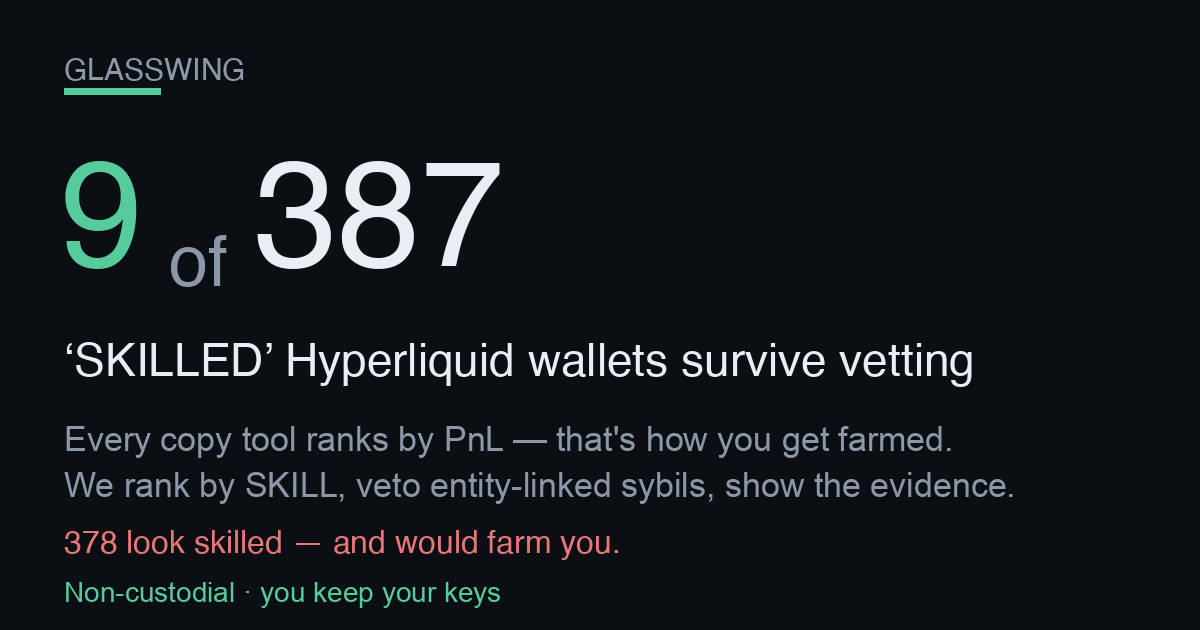
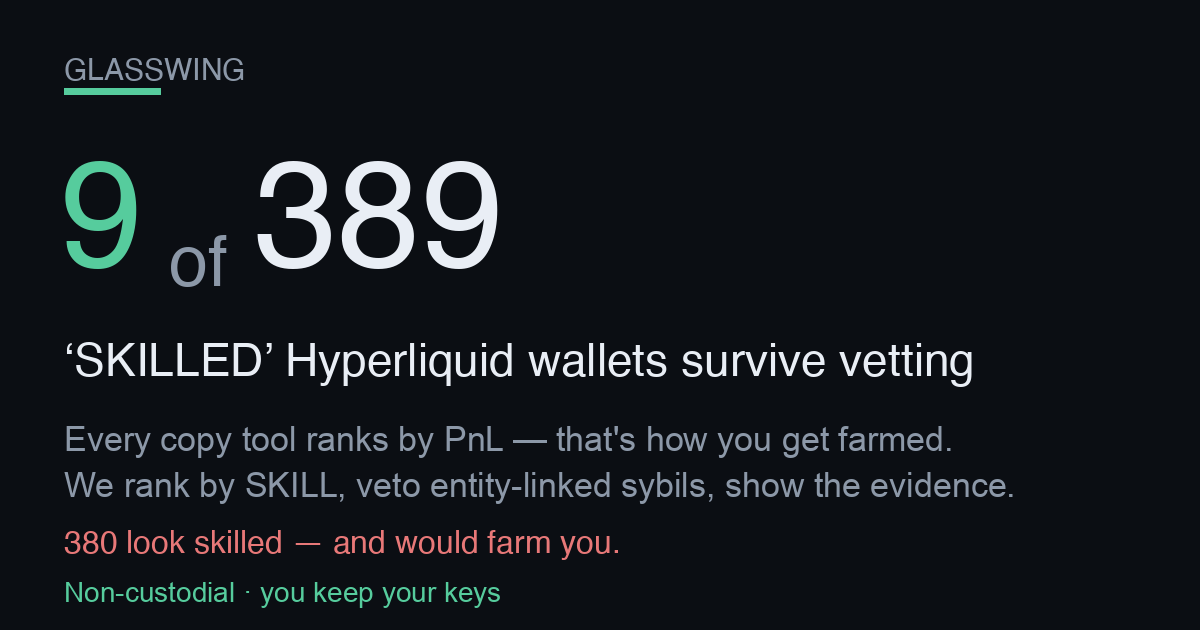
publish funnel 2026-09-12T15:27:09Z

Changed region(s): [[0.3392, 0.2413, 0.4317, 0.4524], [0.0617, 0.8444, 0.0925, 0.8746]]

diff --git a/screener.html b/screener.html
@@ -57,4 +57,4 @@ padding:11px 22px;font-size:15px;font-weight:800;border:1px solid var(--good)}
 footer{margin-top:34px;color:var(--muted);font-size:12px;line-height:1.6;
 border-top:1px solid var(--line);padding-top:16px}
 footer b{color:var(--ink)}
-</style></head><body><div class="wrap"><div class="nav"><a href="./index.html">&larr; Glasswing home</a><span class="sep">|</span><span>Edge Screener</span><span class="sep">|</span><a href="./dex.html">Copy a vetted leader</a></div><div class="hero"><h1>Hyperliquid Edge Screener</h1><div class="sub">Where&rsquo;s the carry, where a maker earns, and what&rsquo;s moving on Hyperliquid &mdash; live, computed from the public API. Bookmark it. Every number below is real and timestamped.</div><div class="stamp">Data as of <b>2026-09-12T09:20:28Z</b> &middot; rendered 2026-09-12T09:20:28Z &middot; 178 perps &middot; 104 HIP-3 (xyz) markets scanned</div></div><h2>Top funding &mdash; the carry table <span class="hint">perps ranked by annualized funding. Positive = longs pay shorts (a delta-neutral short earns it).</span></h2><div class="tblwrap"><table><thead><tr><th>Coin</th><th>Funding / hr</th><th>Annualized</th><th>Who pays</th><th>Open interest</th><th>24h volume</th></tr></thead><tbody><tr><td class="coin">ACE</td><td>-0.0217%</td><td class="neg">-189.9%</td><td><span class="tag shorts">shorts pay</span></td><td>$575K</td><td>$329K</td></tr><tr><td class="coin">SOPH</td><td>-0.0117%</td><td class="neg">-102.7%</td><td><span class="tag shorts">shorts pay</span></td><td>$841K</td><td>$843K</td></tr><tr><td class="coin">REZ</td><td>-0.0084%</td><td class="neg">-73.8%</td><td><span class="tag shorts">shorts pay</span></td><td>$667K</td><td>$660K</td></tr><tr><td class="coin">MINA</td><td>-0.0082%</td><td class="neg">-71.8%</td><td><span class="tag shorts">shorts pay</span></td><td>$3.8M</td><td>$1.9M</td></tr><tr><td class="coin">ALT<span class="tag thin" title="Low liquidity/OI &mdash; ADL &amp; liquidation risk; funding can flip">&#9888; thin</span></td><td>-0.0081%</td><td class="neg">-70.7%</td><td><span class="tag shorts">shorts pay</span></td><td>$844K</td><td>$107K</td></tr><tr><td class="coin">ATOM</td><td>-0.0078%</td><td class="neg">-68.5%</td><td><span class="tag shorts">shorts pay</span></td><td>$2.8M</td><td>$2.1M</td></tr><tr><td class="coin">HEMI</td><td>-0.0076%</td><td class="neg">-66.2%</td><td><span class="tag shorts">shorts pay</span></td><td>$1.2M</td><td>$457K</td></tr><tr><td class="coin">STBL<span class="tag thin" title="Low liquidity/OI &mdash; ADL &amp; liquidation risk; funding can flip">&#9888; thin</span></td><td>+0.0063%</td><td class="pos">+54.7%</td><td><span class="tag longs">longs pay</span></td><td>$2.2M</td><td>$200K</td></tr><tr><td class="coin">NXPC<span class="tag thin" title="Low liquidity/OI &mdash; ADL &amp; liquidation risk; funding can flip">&#9888; thin</span></td><td>-0.0056%</td><td class="neg">-48.6%</td><td><span class="tag shorts">shorts pay</span></td><td>$308K</td><td>$87K</td></tr><tr><td class="coin">POPCAT<span class="tag thin" title="Low liquidity/OI &mdash; ADL &amp; liquidation risk; funding can flip">&#9888; thin</span></td><td>+0.0044%</td><td class="pos">+39.0%</td><td><span class="tag longs">longs pay</span></td><td>$2.1M</td><td>$146K</td></tr><tr><td class="coin">TRUMP</td><td>-0.0044%</td><td class="neg">-38.6%</td><td><span class="tag shorts">shorts pay</span></td><td>$12.4M</td><td>$5.8M</td></tr><tr><td class="coin">ZETA<span class="tag thin" title="Low liquidity/OI &mdash; ADL &amp; liquidation risk; funding can flip">&#9888; thin</span></td><td>-0.0042%</td><td class="neg">-36.7%</td><td><span class="tag shorts">shorts pay</span></td><td>$1.3M</td><td>$117K</td></tr></tbody></table></div><h2>Widest HIP-3 spreads &mdash; where a maker earns <span class="hint">xyz: markets by impact-price spread vs the ~0.6bps round-trip fee. A resting limit order captures the gap.</span></h2><div class="tblwrap"><table><thead><tr><th>Market</th><th>Spread</th><th>vs 0.6bps fee</th><th>Mid</th><th>24h volume</th></tr></thead><tbody><tr><td class="coin">xyz:NET<span class="tag gm">growth</span></td><td>102.6 bps</td><td class="pos">+102.0 bps</td><td>309.5400</td><td>$97K</td></tr><tr><td class="coin">xyz:BIRD<span class="tag gm">growth</span></td><td>99.8 bps</td><td class="pos">+99.2 bps</td><td>2.5046</td><td>$68K</td></tr><tr><td class="coin">xyz:NCLD<span class="tag gm">growth</span></td><td>87.3 bps</td><td class="pos">+86.7 bps</td><td>24.1570</td><td>$151K</td></tr><tr><td class="coin">xyz:SOFTBANK<span class="tag gm">growth</span></td><td>87.3 bps</td><td class="pos">+86.7 bps</td><td>42.5130</td><td>$335K</td></tr><tr><td class="coin">xyz:BMNR</td><td>82.5 bps</td><td class="pos">+81.9 bps</td><td>25.0785</td><td>$382K</td></tr><tr><td class="coin">xyz:SHEIN<span class="tag gm">growth</span></td><td>78.3 bps</td><td class="pos">+77.7 bps</td><td>5.1162</td><td>$303K</td></tr><tr><td class="coin">xyz:GIGADEV<span class="tag gm">growth</span></td><td>76.0 bps</td><td class="pos">+75.4 bps</td><td>54.6195</td><td>$19K</td></tr><tr><td class="coin">xyz:URNM<span class="tag gm">growth</span></td><td>71.6 bps</td><td class="pos">+71.0 bps</td><td>51.3155</td><td>$575K</td></tr><tr><td class="coin">xyz:DKNG<span class="tag gm">growth</span></td><td>66.9 bps</td><td class="pos">+66.3 bps</td><td>24.6720</td><td>$195K</td></tr><tr><td class="coin">xyz:MAGS<span class="tag gm">growth</span></td><td>66.3 bps</td><td class="pos">+65.7 bps</td><td>69.9705</td><td>$69K</td></tr><tr><td class="coin">xyz:CRWD<span class="tag gm">growth</span></td><td>66.3 bps</td><td class="pos">+65.7 bps</td><td>206.4600</td><td>$91K</td></tr><tr><td class="coin">xyz:LYTE<span class="tag gm">growth</span></td><td>65.8 bps</td><td class="pos">+65.2 bps</td><td>25.1160</td><td>$27K</td></tr></tbody></table></div><h2>Momentum &amp; volume &mdash; what&rsquo;s moving <span class="hint">perps by 24h volume with the 24h price change (mark vs prior-day).</span></h2><div class="tblwrap"><table><thead><tr><th>Coin</th><th>24h volume</th><th>24h change</th><th>Mark</th></tr></thead><tbody><tr><td class="coin">BTC</td><td>$3.54B</td><td class="pos">+0.27%</td><td>77,311.00</td></tr><tr><td class="coin">ETH</td><td>$2.60B</td><td class="pos">+2.48%</td><td>2,534.30</td></tr><tr><td class="coin">HYPE</td><td>$589.3M</td><td class="neg">-0.67%</td><td>79.2840</td></tr><tr><td class="coin">ZEC</td><td>$496.6M</td><td class="pos">+4.09%</td><td>1,151.50</td></tr><tr><td class="coin">SOL</td><td>$309.8M</td><td class="pos">+2.38%</td><td>101.9500</td></tr><tr><td class="coin">XRP</td><td>$104.6M</td><td class="pos">+1.50%</td><td>1.3682</td></tr><tr><td class="coin">NEAR</td><td>$74.3M</td><td class="neg">-3.40%</td><td>2.3748</td></tr><tr><td class="coin">PUMP</td><td>$72.4M</td><td class="neg">-2.64%</td><td>0.003578</td></tr><tr><td class="coin">PONS</td><td>$55.2M</td><td class="pos">+0.60%</td><td>0.65151</td></tr><tr><td class="coin">LIT</td><td>$51.8M</td><td class="neg">-3.63%</td><td>4.3421</td></tr><tr><td class="coin">VVV</td><td>$33.8M</td><td class="neg">-2.63%</td><td>23.2090</td></tr><tr><td class="coin">LINK</td><td>$32.8M</td><td class="pos">+0.83%</td><td>11.5540</td></tr></tbody></table></div><div class="cta"><h2>These are the opportunities. Now copy the people who trade them.</h2><p class="lead">Spotting the carry and the spreads is the easy part &mdash; sizing, timing and risk are where most traders bleed. Copy the <b>skill-vetted</b> Hyperliquid leaders who actually trade these edges. Non-custodial: <b>you keep your keys and your funds</b> the entire time.</p><div class="row"><a class="btn" href="./index.html">See the vetted leaders &rarr;</a><a class="btn ghost" href="./dex.html">Start copying (non-custodial) &rarr;</a></div><div class="nc"><b>Non-custodial &amp; honest:</b> we never hold your keys or funds. Copying routes through a <b>0.01%</b> (1bp) on-chain builder fee &mdash; that is the only thing we ever charge, and it is the same fee shown on the copy page. Nothing on this screener is executed for you; it is information only.</div></div><footer><b>Not financial advice.</b> Funding rates, spreads and volumes are live snapshots that change every block; figures can be stale by the time you act. A high funding rate is <b>not free money</b> &mdash; the biggest rates sit on the thinnest, most crowded books (flagged &#9888; thin), where funding can flip against you and auto-deleveraging (ADL) or liquidation can close your position. &ldquo;Spread&rdquo; here is the impact-price spread (a conservative maker signal), not a guaranteed fill. HIP-3 markets are experimental. Do your own research and size responsibly. Glasswing is <b>non-custodial</b> &mdash; we never take custody of your keys or funds.</footer></div></body></html>
+</style></head><body><div class="wrap"><div class="nav"><a href="./index.html">&larr; Glasswing home</a><span class="sep">|</span><span>Edge Screener</span><span class="sep">|</span><a href="./dex.html">Copy a vetted leader</a></div><div class="hero"><h1>Hyperliquid Edge Screener</h1><div class="sub">Where&rsquo;s the carry, where a maker earns, and what&rsquo;s moving on Hyperliquid &mdash; live, computed from the public API. Bookmark it. Every number below is real and timestamped.</div><div class="stamp">Data as of <b>2026-09-12T15:24:48Z</b> &middot; rendered 2026-09-12T15:24:48Z &middot; 178 perps &middot; 104 HIP-3 (xyz) markets scanned</div></div><h2>Top funding &mdash; the carry table <span class="hint">perps ranked by annualized funding. Positive = longs pay shorts (a delta-neutral short earns it).</span></h2><div class="tblwrap"><table><thead><tr><th>Coin</th><th>Funding / hr</th><th>Annualized</th><th>Who pays</th><th>Open interest</th><th>24h volume</th></tr></thead><tbody><tr><td class="coin">SOPH</td><td>-0.0122%</td><td class="neg">-107.1%</td><td><span class="tag shorts">shorts pay</span></td><td>$792K</td><td>$608K</td></tr><tr><td class="coin">POPCAT<span class="tag thin" title="Low liquidity/OI &mdash; ADL &amp; liquidation risk; funding can flip">&#9888; thin</span></td><td>+0.0101%</td><td class="pos">+88.3%</td><td><span class="tag longs">longs pay</span></td><td>$2.1M</td><td>$122K</td></tr><tr><td class="coin">ANIME<span class="tag thin" title="Low liquidity/OI &mdash; ADL &amp; liquidation risk; funding can flip">&#9888; thin</span></td><td>-0.0092%</td><td class="neg">-80.8%</td><td><span class="tag shorts">shorts pay</span></td><td>$365K</td><td>$198K</td></tr><tr><td class="coin">2Z<span class="tag thin" title="Low liquidity/OI &mdash; ADL &amp; liquidation risk; funding can flip">&#9888; thin</span></td><td>-0.0080%</td><td class="neg">-69.7%</td><td><span class="tag shorts">shorts pay</span></td><td>$1.1M</td><td>$122K</td></tr><tr><td class="coin">REZ</td><td>-0.0080%</td><td class="neg">-69.7%</td><td><span class="tag shorts">shorts pay</span></td><td>$709K</td><td>$567K</td></tr><tr><td class="coin">XMR</td><td>+0.0077%</td><td class="pos">+67.4%</td><td><span class="tag longs">longs pay</span></td><td>$78.7M</td><td>$18.2M</td></tr><tr><td class="coin">ZETA<span class="tag thin" title="Low liquidity/OI &mdash; ADL &amp; liquidation risk; funding can flip">&#9888; thin</span></td><td>-0.0076%</td><td class="neg">-67.0%</td><td><span class="tag shorts">shorts pay</span></td><td>$1.3M</td><td>$92K</td></tr><tr><td class="coin">SAND<span class="tag thin" title="Low liquidity/OI &mdash; ADL &amp; liquidation risk; funding can flip">&#9888; thin</span></td><td>-0.0075%</td><td class="neg">-66.1%</td><td><span class="tag shorts">shorts pay</span></td><td>$494K</td><td>$130K</td></tr><tr><td class="coin">USUAL<span class="tag thin" title="Low liquidity/OI &mdash; ADL &amp; liquidation risk; funding can flip">&#9888; thin</span></td><td>+0.0067%</td><td class="pos">+58.4%</td><td><span class="tag longs">longs pay</span></td><td>$751K</td><td>$69K</td></tr><tr><td class="coin">ACE</td><td>-0.0064%</td><td class="neg">-56.2%</td><td><span class="tag shorts">shorts pay</span></td><td>$555K</td><td>$270K</td></tr><tr><td class="coin">STBL<span class="tag thin" title="Low liquidity/OI &mdash; ADL &amp; liquidation risk; funding can flip">&#9888; thin</span></td><td>+0.0046%</td><td class="pos">+40.4%</td><td><span class="tag longs">longs pay</span></td><td>$2.2M</td><td>$157K</td></tr><tr><td class="coin">SKR</td><td>-0.0043%</td><td class="neg">-37.2%</td><td><span class="tag shorts">shorts pay</span></td><td>$2.1M</td><td>$815K</td></tr></tbody></table></div><h2>Widest HIP-3 spreads &mdash; where a maker earns <span class="hint">xyz: markets by impact-price spread vs the ~0.6bps round-trip fee. A resting limit order captures the gap.</span></h2><div class="tblwrap"><table><thead><tr><th>Market</th><th>Spread</th><th>vs 0.6bps fee</th><th>Mid</th><th>24h volume</th></tr></thead><tbody><tr><td class="coin">xyz:BIRD<span class="tag gm">growth</span></td><td>145.7 bps</td><td class="pos">+145.1 bps</td><td>2.5011</td><td>$57K</td></tr><tr><td class="coin">xyz:NCLD<span class="tag gm">growth</span></td><td>115.7 bps</td><td class="pos">+115.1 bps</td><td>24.1575</td><td>$53K</td></tr><tr><td class="coin">xyz:SOFTBANK<span class="tag gm">growth</span></td><td>115.0 bps</td><td class="pos">+114.4 bps</td><td>42.1920</td><td>$259K</td></tr><tr><td class="coin">xyz:NET<span class="tag gm">growth</span></td><td>96.1 bps</td><td class="pos">+95.5 bps</td><td>309.6800</td><td>$45K</td></tr><tr><td class="coin">xyz:XBI<span class="tag gm">growth</span></td><td>87.0 bps</td><td class="pos">+86.4 bps</td><td>155.9950</td><td>$8K</td></tr><tr><td class="coin">xyz:BMNR</td><td>83.6 bps</td><td class="pos">+83.0 bps</td><td>25.1715</td><td>$245K</td></tr><tr><td class="coin">xyz:SHEIN<span class="tag gm">growth</span></td><td>83.0 bps</td><td class="pos">+82.4 bps</td><td>5.2088</td><td>$307K</td></tr><tr><td class="coin">xyz:GIGADEV<span class="tag gm">growth</span></td><td>69.7 bps</td><td class="pos">+69.1 bps</td><td>54.7080</td><td>$12K</td></tr><tr><td class="coin">xyz:BOT<span class="tag gm">growth</span></td><td>68.9 bps</td><td class="pos">+68.3 bps</td><td>26.9185</td><td>$146K</td></tr><tr><td class="coin">xyz:CRWD<span class="tag gm">growth</span></td><td>68.6 bps</td><td class="pos">+68.0 bps</td><td>205.6150</td><td>$48K</td></tr><tr><td class="coin">xyz:PURRDAT</td><td>66.3 bps</td><td class="pos">+65.7 bps</td><td>11.5625</td><td>$673K</td></tr><tr><td class="coin">xyz:LYTE<span class="tag gm">growth</span></td><td>60.6 bps</td><td class="pos">+60.0 bps</td><td>25.0845</td><td>$19K</td></tr></tbody></table></div><h2>Momentum &amp; volume &mdash; what&rsquo;s moving <span class="hint">perps by 24h volume with the 24h price change (mark vs prior-day).</span></h2><div class="tblwrap"><table><thead><tr><th>Coin</th><th>24h volume</th><th>24h change</th><th>Mark</th></tr></thead><tbody><tr><td class="coin">BTC</td><td>$1.38B</td><td class="neg">-1.64%</td><td>77,399.00</td></tr><tr><td class="coin">ETH</td><td>$1.21B</td><td class="neg">-2.74%</td><td>2,539.60</td></tr><tr><td class="coin">HYPE</td><td>$326.5M</td><td class="neg">-3.45%</td><td>80.2930</td></tr><tr><td class="coin">ZEC</td><td>$267.2M</td><td class="neg">-4.71%</td><td>1,142.30</td></tr><tr><td class="coin">SOL</td><td>$173.5M</td><td class="neg">-1.37%</td><td>101.9200</td></tr><tr><td class="coin">XRP</td><td>$52.0M</td><td class="neg">-2.04%</td><td>1.3691</td></tr><tr><td class="coin">PUMP</td><td>$50.1M</td><td class="neg">-2.55%</td><td>0.003663</td></tr><tr><td class="coin">NEAR</td><td>$43.5M</td><td class="neg">-11.54%</td><td>2.3993</td></tr><tr><td class="coin">PONS</td><td>$38.7M</td><td class="neg">-4.64%</td><td>0.62792</td></tr><tr><td class="coin">LIT</td><td>$30.5M</td><td class="neg">-9.93%</td><td>4.3111</td></tr><tr><td class="coin">UNI</td><td>$20.3M</td><td class="pos">+2.72%</td><td>6.5287</td></tr><tr><td class="coin">XMR</td><td>$18.2M</td><td class="pos">+1.98%</td><td>525.6000</td></tr></tbody></table></div><div class="cta"><h2>These are the opportunities. Now copy the people who trade them.</h2><p class="lead">Spotting the carry and the spreads is the easy part &mdash; sizing, timing and risk are where most traders bleed. Copy the <b>skill-vetted</b> Hyperliquid leaders who actually trade these edges. Non-custodial: <b>you keep your keys and your funds</b> the entire time.</p><div class="row"><a class="btn" href="./index.html">See the vetted leaders &rarr;</a><a class="btn ghost" href="./dex.html">Start copying (non-custodial) &rarr;</a></div><div class="nc"><b>Non-custodial &amp; honest:</b> we never hold your keys or funds. Copying routes through a <b>0.01%</b> (1bp) on-chain builder fee &mdash; that is the only thing we ever charge, and it is the same fee shown on the copy page. Nothing on this screener is executed for you; it is information only.</div></div><footer><b>Not financial advice.</b> Funding rates, spreads and volumes are live snapshots that change every block; figures can be stale by the time you act. A high funding rate is <b>not free money</b> &mdash; the biggest rates sit on the thinnest, most crowded books (flagged &#9888; thin), where funding can flip against you and auto-deleveraging (ADL) or liquidation can close your position. &ldquo;Spread&rdquo; here is the impact-price spread (a conservative maker signal), not a guaranteed fill. HIP-3 markets are experimental. Do your own research and size responsibly. Glasswing is <b>non-custodial</b> &mdash; we never take custody of your keys or funds.</footer></div></body></html>

diff --git a/track.html b/track.html
@@ -62,7 +62,7 @@ font-weight:600;font-size:14px}
 <div class="wrap">
   <div class="hero">
     <h1>Self-verifying on-chain track record</h1>
-    <div class="big">$207.40</div>
+    <div class="big">$209.61</div>
     <div class="sub">current on-chain equity (perp + vault + spot USDC)</div>
     <div class="addr">0xbe6C1b09662BbE52CC93279D103Feb27985DdBc1</div>
     <div class="stage building">55 days live — BUILDING</div>
@@ -72,25 +72,25 @@ font-weight:600;font-size:14px}
 
   <h2>On-chain figures <span style="color:var(--muted);font-weight:400;font-size:13px">
   &mdash; every one reproducible from the public info API</span></h2>
-  <table><tbody><tr><td class="k">On-chain equity (perp + vault + spot USDC)</td><td class="v">$207.40</td></tr><tr><td class="k">Perp account value</td><td class="v">$206.22</td></tr><tr><td class="k">Vault equity</td><td class="v">$0.17</td></tr><tr><td class="k">Spot USDC</td><td class="v">$1.00</td></tr><tr><td class="k">Withdrawable</td><td class="v">$206.22</td></tr></tbody></table>
+  <table><tbody><tr><td class="k">On-chain equity (perp + vault + spot USDC)</td><td class="v">$209.61</td></tr><tr><td class="k">Perp account value</td><td class="v">$208.44</td></tr><tr><td class="k">Vault equity</td><td class="v">$0.17</td></tr><tr><td class="k">Spot USDC</td><td class="v">$1.00</td></tr><tr><td class="k">Withdrawable</td><td class="v">$208.44</td></tr></tbody></table>
 
   <h2>Vault deposits (on-chain)</h2><table><thead><tr><th>Vault address</th><th>Our equity</th></tr></thead><tbody><tr><td class="mono">0x2431edfcb662e6ff6deab113cc91878a0b53fb0f</td><td class="v">$0.01</td></tr><tr><td class="mono">0x697bc3dd77539fa84156d0e1c95287ea5524fd6b</td><td class="v">$0.00</td></tr><tr><td class="mono">0x8825e6ed11c7f9c0874579c9f4bba192b9e81c8f</td><td class="v">$0.13</td></tr><tr><td class="mono">0xc71f5a493b937e4b1798b86510630336a6dfd804</td><td class="v">$0.04</td></tr></tbody></table>
 
   <h2>Performance <span style="color:var(--muted);font-weight:400;font-size:13px">
   &mdash; honest stage, no annualization</span></h2>
-  <table><tbody><tr><td class="k">Days live (our formal record)</td><td class="v">55</td></tr><tr><td class="k">Maturity</td><td class="v">BUILDING</td></tr><tr><td class="k">Current real strategy income / day</td><td class="v">$0.1291</td></tr><tr><td class="k">Cumulative net income (if attributed)</td><td class="v">$37.8045</td></tr><tr><td class="k">Annualized APR</td><td class="v">shown per-day above</td></tr></tbody></table>
+  <table><tbody><tr><td class="k">Days live (our formal record)</td><td class="v">55</td></tr><tr><td class="k">Maturity</td><td class="v">BUILDING</td></tr><tr><td class="k">Current real strategy income / day</td><td class="v">$0.1293</td></tr><tr><td class="k">Cumulative net income (if attributed)</td><td class="v">$37.8154</td></tr><tr><td class="k">Annualized APR</td><td class="v">shown per-day above</td></tr></tbody></table>
 
   <h2>Strategy arms <span style="color:var(--muted);font-weight:400;font-size:13px">
   &mdash; internal marks, cross-checkable against chain equity</span></h2>
-  <table><thead><tr><th>Arm</th><th>Status</th><th>Real / day</th><th>Note</th></tr></thead><tbody><tr><td class="v">carry</td><td><span class="badge off">—</span></td><td class="v">$0.1291</td><td class="k"></td></tr><tr><td class="v">copy</td><td><span class="badge live">live</span></td><td class="v">$0.0000</td><td class="k"></td></tr><tr><td class="v">builder</td><td><span class="badge off">—</span></td><td class="v">$0.0000</td><td class="k">proven live; $0 until distributed (∝ users&#x27; volume)</td></tr></tbody></table>
+  <table><thead><tr><th>Arm</th><th>Status</th><th>Real / day</th><th>Note</th></tr></thead><tbody><tr><td class="v">carry</td><td><span class="badge off">—</span></td><td class="v">$0.1293</td><td class="k"></td></tr><tr><td class="v">copy</td><td><span class="badge live">live</span></td><td class="v">$0.0000</td><td class="k"></td></tr><tr><td class="v">builder</td><td><span class="badge off">—</span></td><td class="v">$0.0000</td><td class="k">proven live; $0 until distributed (∝ users&#x27; volume)</td></tr></tbody></table>
 
   <h2>Reproduce it</h2>
   <div class="verify"><h3>Verify this yourself</h3><p>These are PUBLIC calls. Run them yourself against the address below and you will re-derive every on-chain figure on this page. equity_usd = perp accountValue + vault equity + spot USDC. Endpoint: https://api.hyperliquid.xyz/info</p><div class="cn">clearinghouseState &rarr; marginSummary.accountValue (perp value), withdrawable, marginSummary.totalMarginUsed</div><pre>curl -s -X POST https://api.hyperliquid.xyz/info -H &#x27;Content-Type: application/json&#x27; -d &#x27;{&quot;type&quot;: &quot;clearinghouseState&quot;, &quot;user&quot;: &quot;0xbe6C1b09662BbE52CC93279D103Feb27985DdBc1&quot;}&#x27;</pre><div class="cn">userVaultEquities &rarr; sum of each entry&#x27;s equity (our vault deposits)</div><pre>curl -s -X POST https://api.hyperliquid.xyz/info -H &#x27;Content-Type: application/json&#x27; -d &#x27;{&quot;type&quot;: &quot;userVaultEquities&quot;, &quot;user&quot;: &quot;0xbe6C1b09662BbE52CC93279D103Feb27985DdBc1&quot;}&#x27;</pre><div class="cn">spotClearinghouseState &rarr; balances[] where coin==USDC -&gt; total (spot USDC)</div><pre>curl -s -X POST https://api.hyperliquid.xyz/info -H &#x27;Content-Type: application/json&#x27; -d &#x27;{&quot;type&quot;: &quot;spotClearinghouseState&quot;, &quot;user&quot;: &quot;0xbe6C1b09662BbE52CC93279D103Feb27985DdBc1&quot;}&#x27;</pre></div>
 
   <footer>
     <div>Self-verifying: every on-chain figure is reproducible by querying Hyperliquid&#x27;s public info API for the stated address. Internal daily marks are cross-checkable against on-chain equity. EARLY-STAGE record — not a mature track record, not an APR promise, not financial advice. Past performance != future results.</div>
-    <div class="stamp">Generated at 2026-09-12T09:19:03Z &middot; internal marks
-    mtime 2026-09-12T07:37:05Z &middot; static receipt, no live
+    <div class="stamp">Generated at 2026-09-12T15:23:26Z &middot; internal marks
+    mtime 2026-09-12T13:37:13Z &middot; static receipt, no live
     authority — this page never trades or arms.</div>
   </footer>
 </div>

diff --git a/index.html b/index.html
@@ -3,8 +3,8 @@
 <head>
 <meta charset="utf-8">
 <meta name="viewport" content="width=device-width, initial-scale=1">
-<title>9 of 387 SKILLED Hyperliquid wallets survive vetting</title>
-<meta name="description" content="9 of 387 leaderboard-SKILLED Hyperliquid wallets survive vetting. Copy only the survivors, non-custodial — you keep your keys and funds.">
+<title>9 of 389 SKILLED Hyperliquid wallets survive vetting</title>
+<meta name="description" content="9 of 389 leaderboard-SKILLED Hyperliquid wallets survive vetting. Copy only the survivors, non-custodial — you keep your keys and funds.">
 <link rel="canonical" href="https://dynobit.github.io/glasswing/">
 <meta name="robots" content="index,follow">
 <meta name="theme-color" content="#0b0e13">
@@ -14,14 +14,14 @@
      head, not this. og:url is the canonical Pages home so every share resolves here. -->
 <meta property="og:type" content="website">
 <meta property="og:site_name" content="Glasswing">
-<meta property="og:title" content="9 of 387 SKILLED Hyperliquid wallets survive vetting">
+<meta property="og:title" content="9 of 389 SKILLED Hyperliquid wallets survive vetting">
 <meta property="og:description" content="Every copy tool ranks leaders by PnL — which is how you get farmed. This ranks by SKILL, then vetoes entity-linked sybils, and shows the evidence for every reject. Non-custodial: you keep your keys.">
 <meta property="og:url" content="https://dynobit.github.io/glasswing/">
 <meta property="og:image" content="https://dynobit.github.io/glasswing/og-card.png">
 <meta property="og:image:width" content="1200">
 <meta property="og:image:height" content="630">
 <meta name="twitter:card" content="summary_large_image">
-<meta name="twitter:title" content="9 of 387 SKILLED Hyperliquid wallets survive vetting">
+<meta name="twitter:title" content="9 of 389 SKILLED Hyperliquid wallets survive vetting">
 <meta name="twitter:description" content="Skill-ranked (not PnL-ranked) HL copy-leaders, entity-linked sybils vetoed with evidence. Non-custodial.">
 <meta name="twitter:image" content="https://dynobit.github.io/glasswing/og-card.png">
 <style>
@@ -135,18 +135,18 @@ footer .nc{color:var(--good);font-weight:600}
 
   <!-- 1. HERO — the shareable hook (screenshot-worthy) -->
   <div class="hero">
-    <h1><span class="big">9 of 387</span> &lsquo;SKILLED&rsquo;
+    <h1><span class="big">9 of 389</span> &lsquo;SKILLED&rsquo;
     Hyperliquid wallets survive vetting</h1>
-    <div class="sub">The other <span class="trap">378</span> look skilled on a
+    <div class="sub">The other <span class="trap">380</span> look skilled on a
     raw copy leaderboard but would farm you &mdash; here are the
-    <span class="trap">378</span> that would. Entity-linked sybils,
+    <span class="trap">380</span> that would. Entity-linked sybils,
     wash-traded track records, or simply unscreened. 2.3% survive.
-    Universe: 3619 scored wallets.</div>
+    Universe: 3638 scored wallets.</div>
   </div>
 
   <!-- 2. THE WEDGE — the marketing (why us, not any other copy tool) -->
   <div class="wedge"><span class="them">Every other copy tool ranks all
-    387 by PnL and calls it a leaderboard.</span> We are the only one that
+    389 by PnL and calls it a leaderboard.</span> We are the only one that
     <b>flags the entity-linked and farming wallets with on-chain evidence</b> &mdash;
     transfer-graph linkage between wallets and arXiv memecoin farm-features &mdash;
     and shows you only the 9 that survive. A high PnL is exactly what a
@@ -268,7 +268,7 @@ footer .nc{color:var(--good);font-weight:600}
   <footer>
     <div class="nc">Non-custodial: we never hold your keys or funds. No server, no backend. Your browser talks only to Hyperliquid&#x27;s public API.</div>
     <div>Advisory. Skill = sign-randomization null vs luck. Entity veto = public transfer-graph linkage. Farm screen = arXiv:2601.08641 features (memecoin thresholds, HL-uncalibrated). Follower-realizable PnL is NOT yet proven — a PRE-COMMITTED forward test is in progress (0/2 windows, earliest 2026-08-13); the copyability claim publishes only when the pre-registered windows close, so it cannot be discovery-mined. Exit-alpha shown is advisory. Not financial advice.</div>
-    <div class="stamp">Generated at 2026-09-12T09:19:41Z &middot; single-file funnel,
+    <div class="stamp">Generated at 2026-09-12T15:23:47Z &middot; single-file funnel,
     no live authority. In-browser order signing is IMPLEMENTED (real secp256k1 +
     keccak + msgpack EIP-712 from a pinned CDN) but UNVALIDATED against Hyperliquid:
     mainnet is blocked until a testnet order is proven accepted.</div>

diff --git a/dex.html b/dex.html
@@ -112,8 +112,8 @@ footer .nc{color:var(--good);font-weight:600}
     funds and your keys the whole time. Two signatures in your own wallet, an
     ephemeral in-browser agent key that can trade but never withdraw, and a
     client-side loop that mirrors only the
-    <b>9 of 387</b> vetted survivors
-    (universe: 3619 scored wallets). No server, no backend.</div>
+    <b>9 of 389</b> vetted survivors
+    (universe: 3638 scored wallets). No server, no backend.</div>
     <div class="tag">static bundle &middot; IPFS-publishable &middot; revenue accrues on-chain</div>
   </div>
 
@@ -217,7 +217,7 @@ footer .nc{color:var(--good);font-weight:600}
   <footer>
     <div class="nc">Pure DEX, self-custodial. No server, no backend, no key we ever hold. Your browser talks only to Hyperliquid&#x27;s public API.</div>
     <div>Advisory. Skill = sign-randomization null vs luck. Entity veto = public transfer-graph linkage. Farm screen = arXiv:2601.08641 features (memecoin thresholds, HL-uncalibrated). Follower-realizable PnL is NOT yet proven — a PRE-COMMITTED forward test is in progress (0/2 windows, earliest 2026-08-13); the copyability claim publishes only when the pre-registered windows close, so it cannot be discovery-mined. Exit-alpha shown is advisory. Not financial advice.</div>
-    <div class="stamp">Generated at 2026-09-12T09:19:41Z &middot; static,
+    <div class="stamp">Generated at 2026-09-12T15:23:47Z &middot; static,
     self-custodial surface, no live authority. In-browser order signing is
     IMPLEMENTED (real secp256k1 + keccak + msgpack EIP-712 from a pinned CDN) but
     UNVALIDATED against Hyperliquid: mainnet is blocked until a testnet order is
